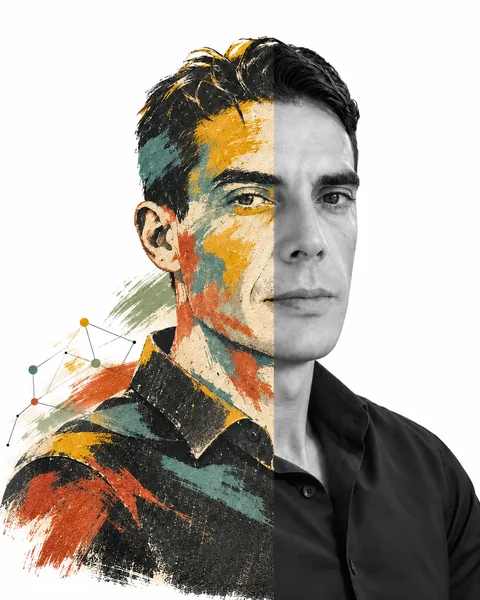
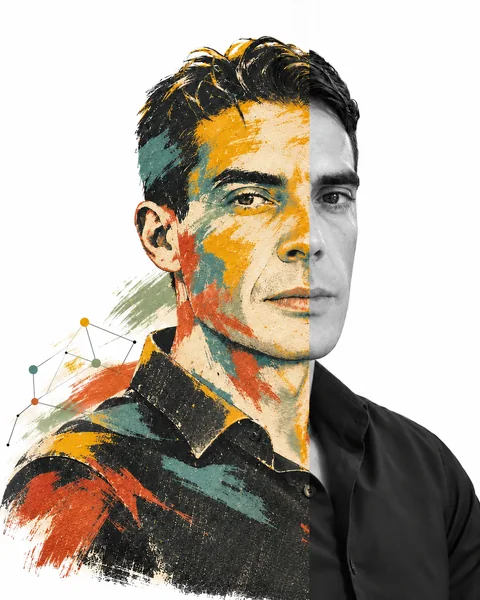
Centra la división del retrato entre ambas fosas nasales

diff --git a/REVISION.md b/REVISION.md
@@ -6,7 +6,7 @@ Versión de revisión del 27 de noviembre de 2026. La rama parte del commit `c0f
 
 La franja negra reúne la marca personal, los enlaces existentes, el acceso a Formación y LinkedIn. En escritorio, el retrato intervenido ocupa el eje central entre «integración social» y «educación social». La primera identifica la titulación de técnico superior y la segunda el grado en curso. En móvil, la fotografía precede a las dos columnas de texto. La intervención gráfica es una interpretación del retrato facilitado mediante generación de imagen. El parecido y el recorte quedan sujetos al criterio del titular.
 
-La comparación visual con la referencia se hizo sobre capturas de Chrome de 1440 × 900 y 390 × 844. Se revisaron la posición del rostro, su división, el tamaño de la cabecera, los textos laterales y el espacio blanco. Los títulos en español ocupan dos líneas. El nombre y los accesos a perfil y CV se sitúan en el pie de la portada.
+La comparación visual con la referencia se hizo sobre capturas de Chrome de 1440 × 900 y 390 × 844. Se revisaron la posición del rostro, su división, el tamaño de la cabecera, los textos laterales y el espacio blanco. El corte vertical del retrato pasa por el punto medio entre los bordes internos de ambas fosas nasales. Los títulos en español ocupan dos líneas. El nombre y los accesos a perfil y CV se sitúan en el pie de la portada.
 
 El texto de la presentación anterior pasa al apartado Perfil. Se conservaron los bloques de texto del contenido principal, sus identificadores y los destinos de los enlaces. Se comprobó por comparación del HTML original con la salida PHP. Se conservaron las doce entradas del CV, las cuatro entradas de formación y los tres MP4. El diseño editorial organiza aportaciones y cronologías mediante líneas y columnas abiertas. Los reproductores incorporan cartel, descripción visual desplegable y enlace directo al archivo.
 
@@ -29,7 +29,7 @@ El texto de la presentación anterior pasa al apartado Perfil. Se conservaron lo
 | WCAG 2.2 A y AA | axe-core sobre la página completa en Chrome 158 a 1440 y 320 píxeles. En ambas ejecuciones, 22 reglas superadas, cero infracciones detectadas y una comprobación manual pendiente sobre subtítulos. La herramienta cubre una parte de los criterios WCAG. |
 | Teclado | Tab alcanza «Saltar al contenido». Intro lleva el foco al contenido principal. En móvil se verificaron apertura del menú, acceso al primer enlace, cierre con Escape, devolución del foco y salto a Formación. |
 | Adaptación | Chrome a 320, 390, 820 y 1440 píxeles. La anchura del documento coincidió con la ventana en las cuatro pruebas. Navegación y perfil también se visualizaron con JavaScript desactivado. Se probó la preferencia de movimiento reducido. |
-| Imágenes y rendimiento | Dos tamaños WebP del retrato, de 46 542 y 174 026 bytes. Tamaños declarados y prioridad alta en portada. Fuentes del sistema, carga diferida de imágenes secundarias y vídeos con precarga desactivada. No se midieron métricas de campo. |
+| Imágenes y rendimiento | Dos tamaños WebP del retrato, de 49 490 y 179 150 bytes. Tamaños declarados y prioridad alta en portada. Fuentes del sistema, carga diferida de imágenes secundarias y vídeos con precarga desactivada. No se midieron métricas de campo. |
 | Rutas y medios | Se resolvieron todos los destinos internos y las rutas locales del HTML. Chrome abrió los tres MP4 y leyó sus dimensiones y duración. Se conservó la dirección original de LinkedIn. El acceso externo al perfil y al dominio no pudo verificarse desde este entorno. |
 
 ## Pendiente antes de una declaración de conformidad
